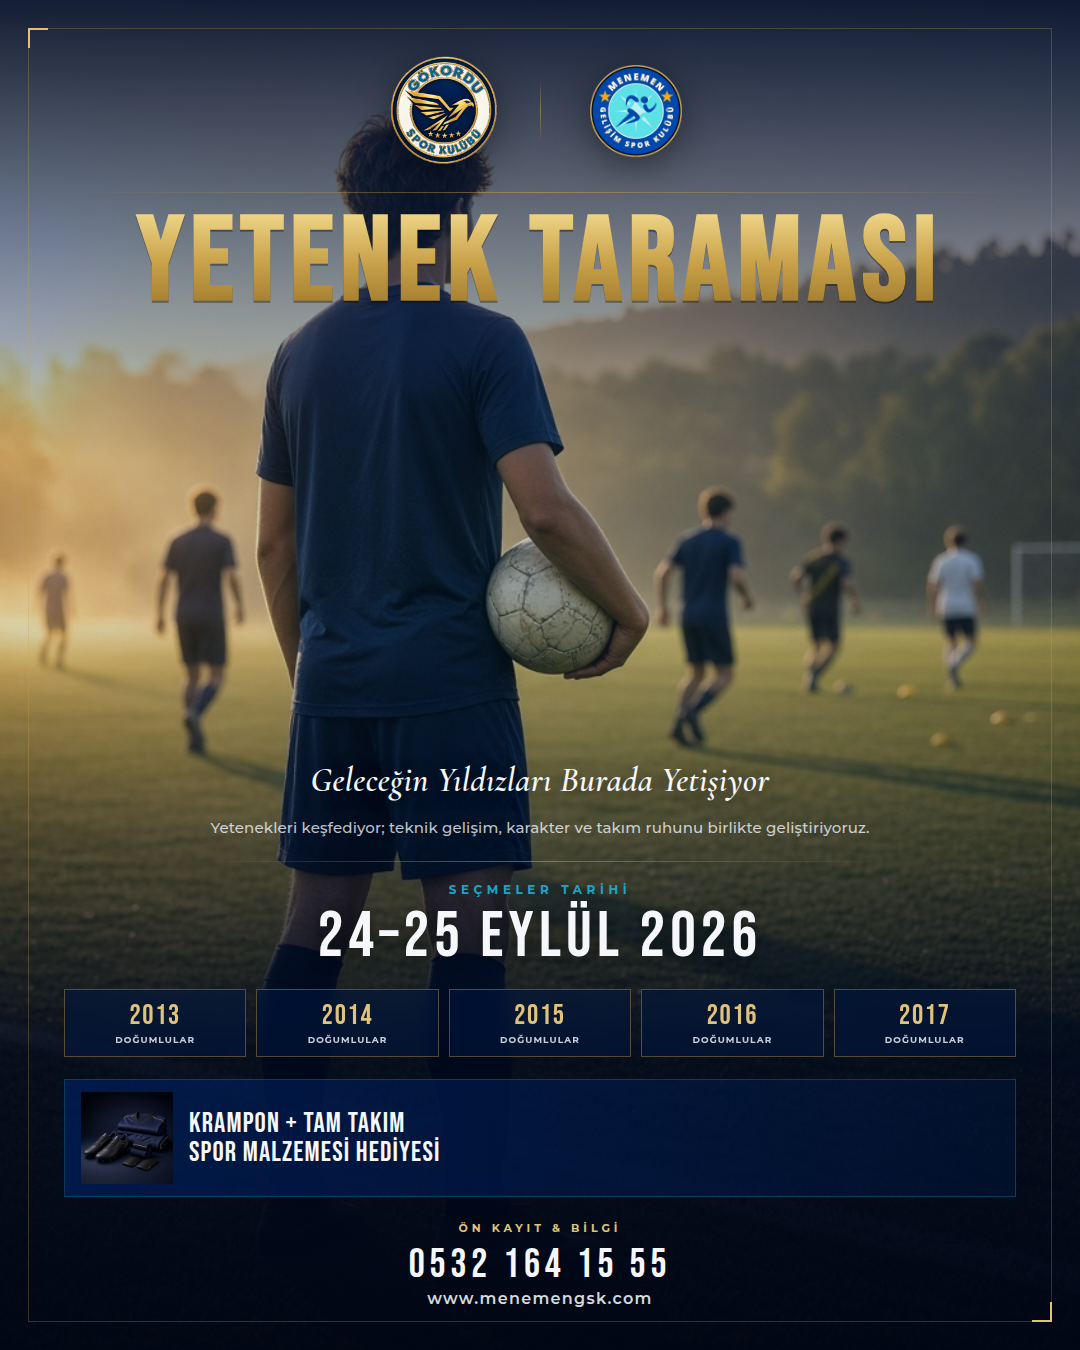
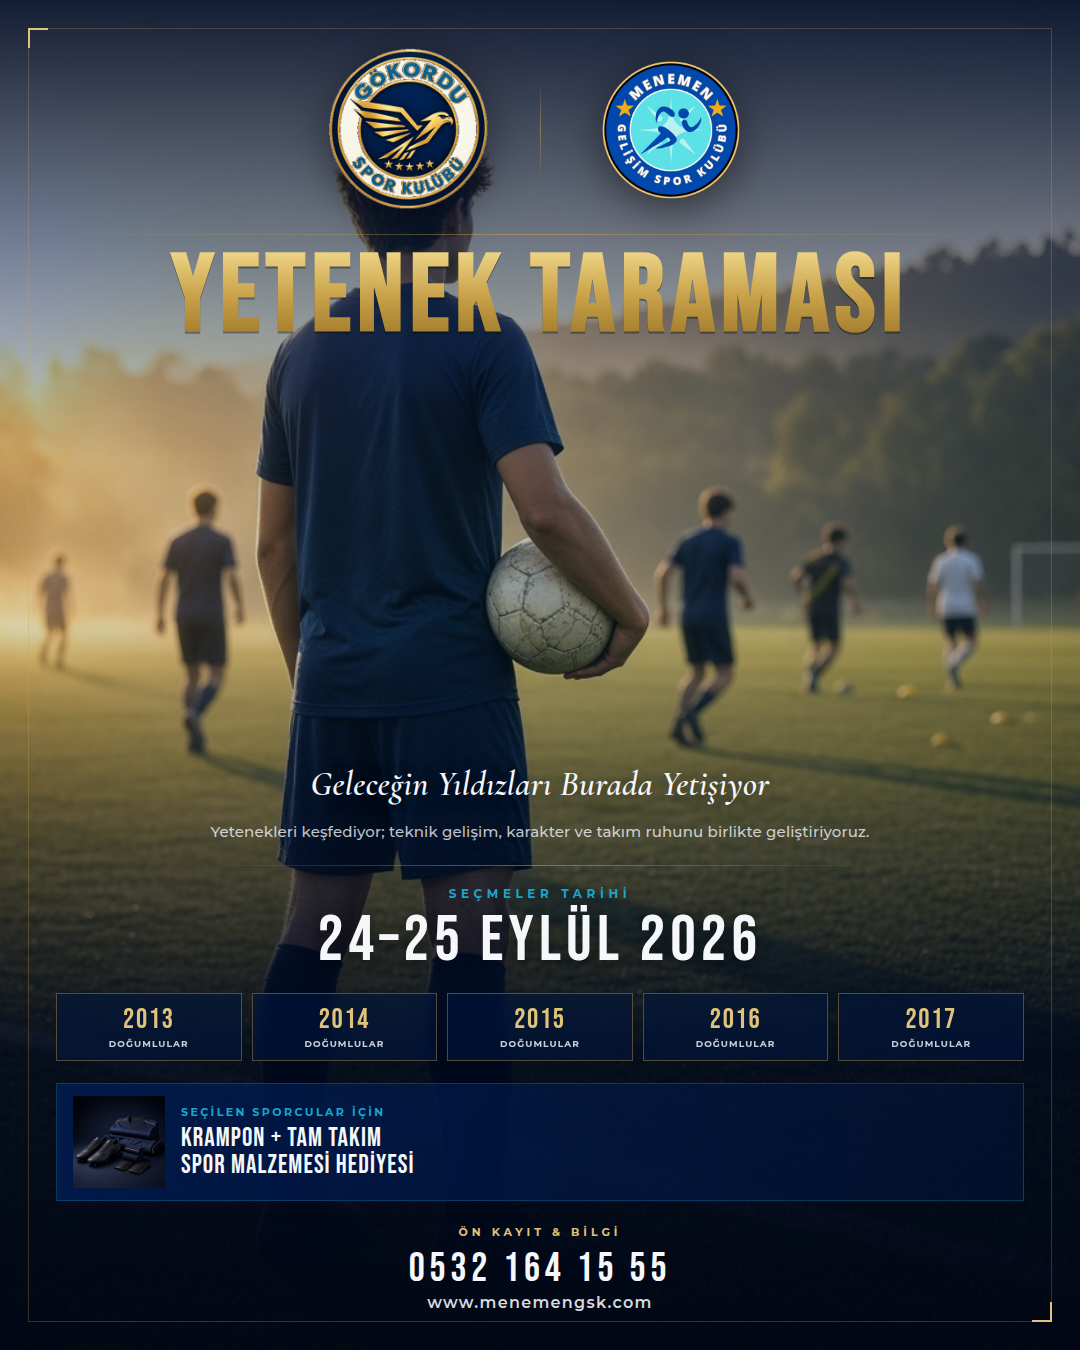
Enlarge crests and clarify gift is for selected athletes
Draft update: larger readable logos; gift note Seçilen sporcular için.

diff --git a/campaign/yetenek-taramasi-1080x1350.html b/campaign/yetenek-taramasi-1080x1350.html
@@ -95,7 +95,7 @@
       position: relative;
       z-index: 2;
       height: 100%;
-      padding: 48px 64px 42px;
+      padding: 40px 56px 38px;
       display: flex;
       flex-direction: column;
     }
@@ -105,27 +105,27 @@
       display: flex;
       justify-content: center;
       align-items: center;
-      gap: 36px;
-      padding-top: 4px;
+      gap: 42px;
+      padding-top: 2px;
     }
 
     .crests img {
-      width: 118px;
-      height: 118px;
+      width: 176px;
+      height: 176px;
       object-fit: contain;
-      filter: drop-shadow(0 8px 18px rgba(0, 0, 0, 0.45));
+      filter: drop-shadow(0 10px 22px rgba(0, 0, 0, 0.5));
     }
 
     .crests__divider {
       width: 1px;
-      height: 64px;
+      height: 96px;
       background: linear-gradient(180deg, transparent, var(--gold-line), transparent);
     }
 
     .rule {
       width: 100%;
       height: 1px;
-      margin: 22px 0 18px;
+      margin: 16px 0 14px;
       background: linear-gradient(90deg, transparent, var(--gold-line), transparent);
     }
 
@@ -133,7 +133,7 @@
     .headline {
       text-align: center;
       font-family: "Bebas Neue", Impact, sans-serif;
-      font-size: 118px;
+      font-size: 108px;
       line-height: 0.9;
       letter-spacing: 0.06em;
       background: linear-gradient(180deg, #f0d78a 0%, #c9a24a 48%, #9a7428 100%);
@@ -264,17 +264,18 @@
       border-radius: 2px;
     }
 
-    .gift__kicker {
-      font-size: 10px;
+    .gift__note {
+      font-size: 11px;
       font-weight: 700;
-      letter-spacing: 0.28em;
+      letter-spacing: 0.22em;
+      text-transform: uppercase;
       color: var(--turquoise);
       margin-bottom: 6px;
     }
 
     .gift__title {
       font-family: "Bebas Neue", Impact, sans-serif;
-      font-size: 28px;
+      font-size: 26px;
       line-height: 1.05;
       letter-spacing: 0.04em;
       color: var(--white);
@@ -320,9 +321,9 @@
 
     <div class="content">
       <header class="crests">
-        <img src="assets/gokordu-crest.png" alt="GÖKORDU SPOR KULÜBÜ" width="118" height="118" />
+        <img src="assets/gokordu-crest.png" alt="GÖKORDU SPOR KULÜBÜ" width="176" height="176" />
         <div class="crests__divider" aria-hidden="true"></div>
-        <img src="assets/menemen-crest.png" alt="MENEMEN GELİŞİM SPOR KULÜBÜ" width="118" height="118" />
+        <img src="assets/menemen-crest.png" alt="MENEMEN GELİŞİM SPOR KULÜBÜ" width="176" height="176" />
       </header>
 
       <div class="rule" aria-hidden="true"></div>
@@ -352,6 +353,7 @@
       <section class="gift">
         <img src="assets/gift-kit.jpg" alt="" width="92" height="92" />
         <div>
+          <p class="gift__note">Seçilen sporcular için</p>
           <p class="gift__title">KRAMPON + TAM TAKIM
 SPOR MALZEMESİ HEDİYESİ</p>
         </div>
